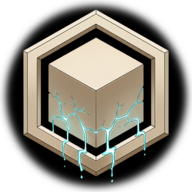
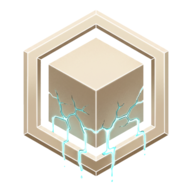
Emblem freigestellt, Discord-Knopf auf den richtigen Server (2z7UPQYRmK)

diff --git a/index.html b/index.html
@@ -638,7 +638,7 @@
     share build ideas and get a shot at early playtests.
   </p>
   <div>
-    <a class="btn btn-primary" href="https://discord.gg/7sc93Dzfgk">Join our Discord</a>
+    <a class="btn btn-primary" href="https://discord.gg/2z7UPQYRmK">Join our Discord</a>
     <span class="soon">Steam — coming later</span>
   </div>
 </section>
